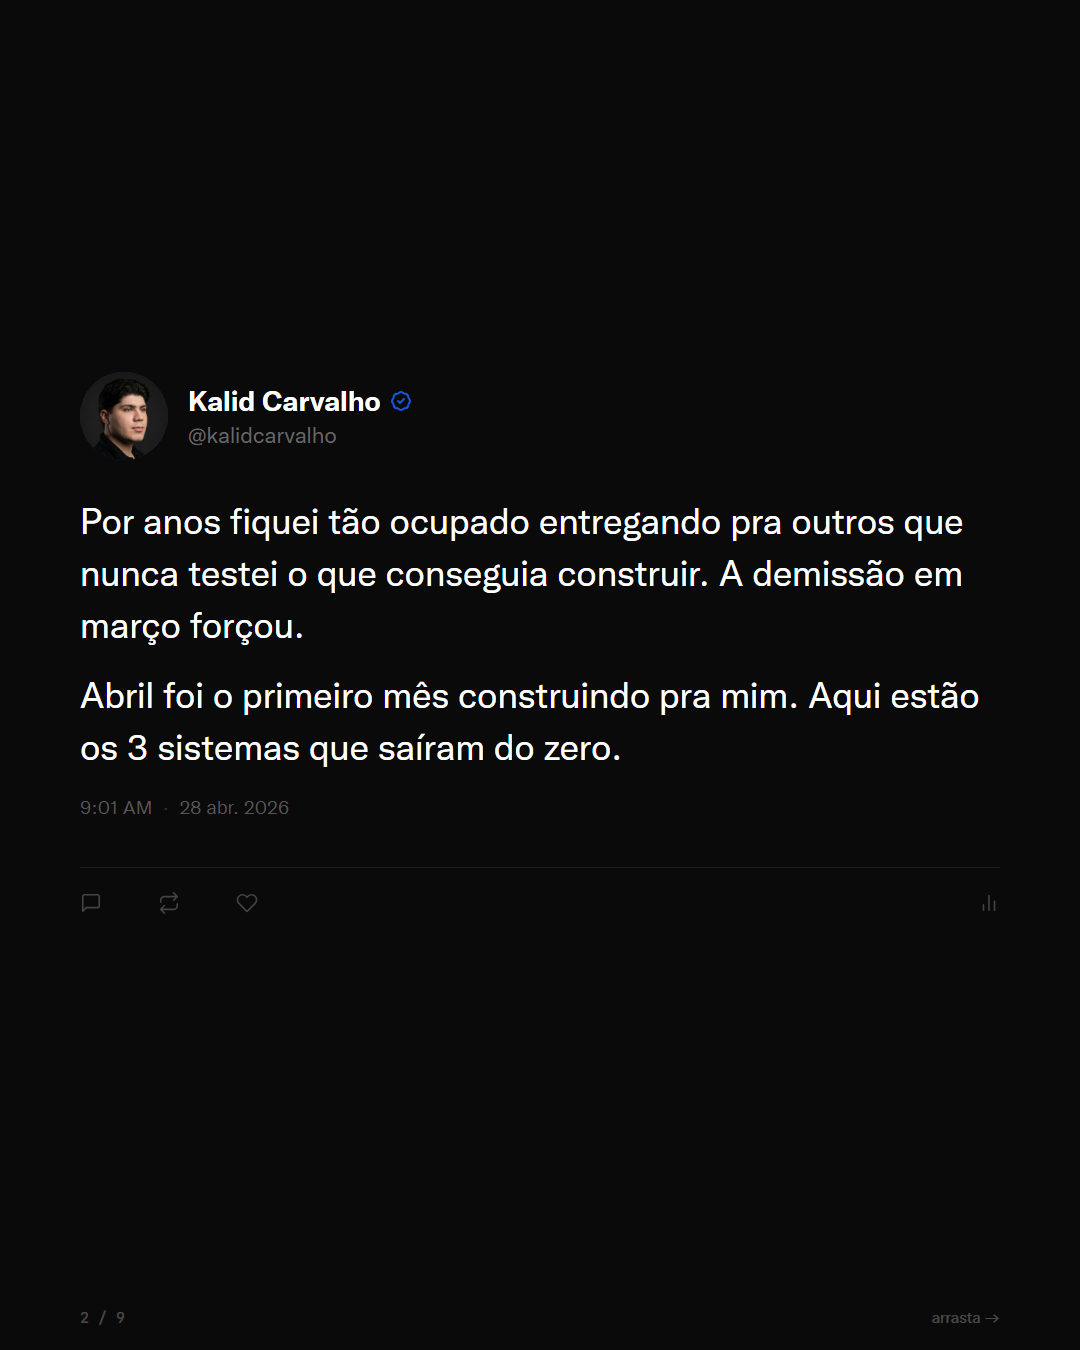
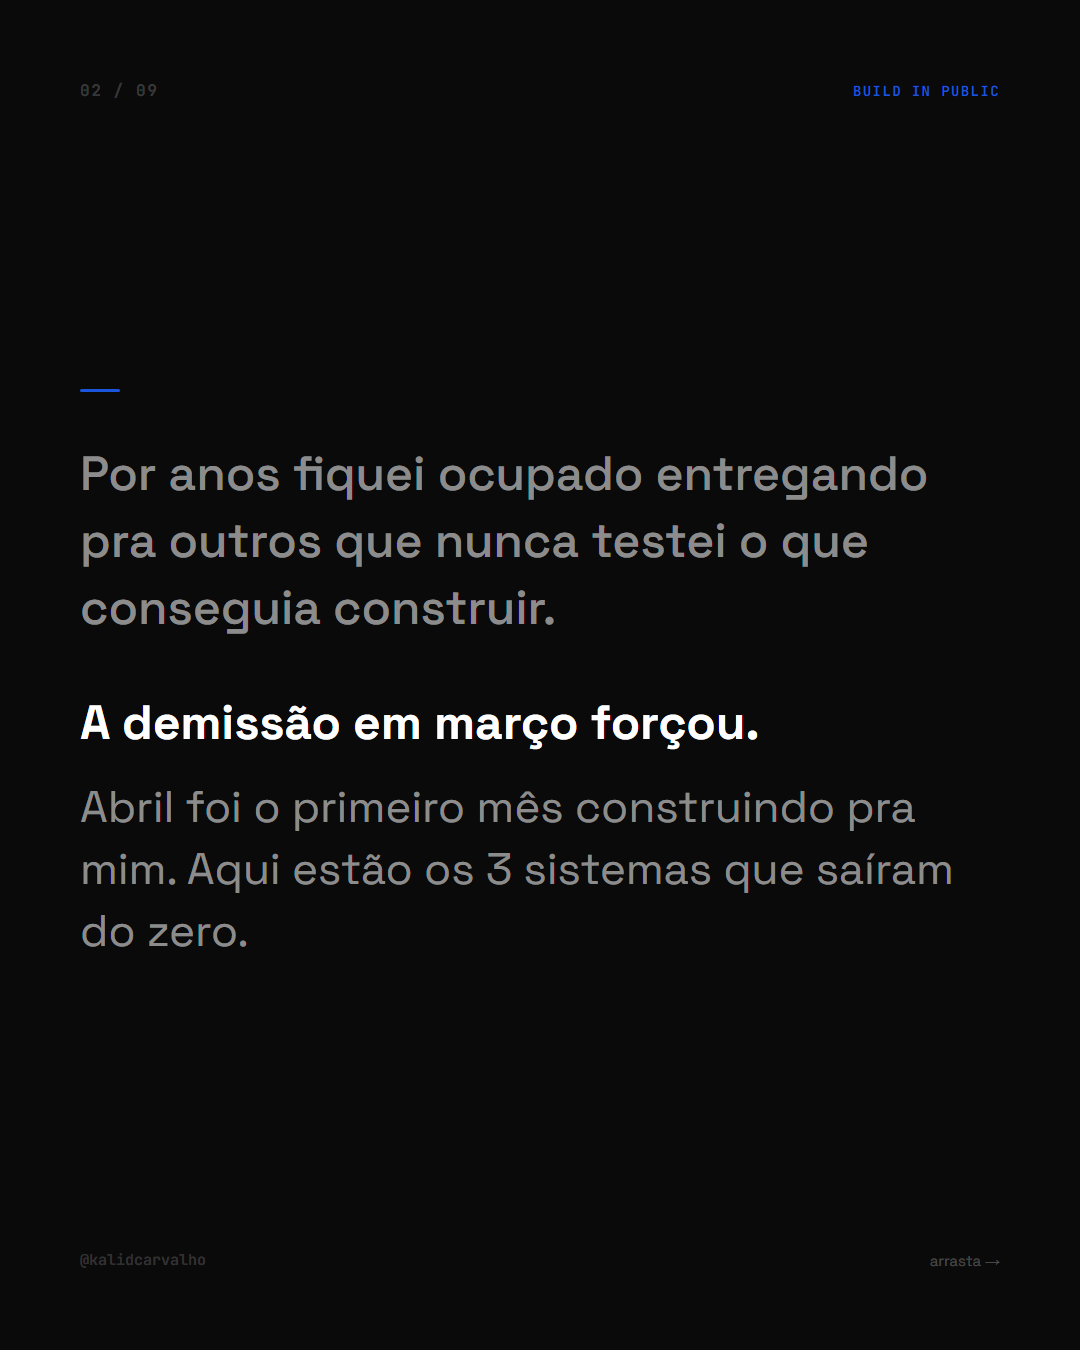
auto-sync: 2026-04-28 07:04

diff --git a/clientes/Alexandre Neto/conteudo/semana-01/semana-01-pdf.html b/clientes/Alexandre Neto/conteudo/semana-01/semana-01-pdf.html
@@ -1,9 +1,9 @@
-<!DOCTYPE html>
+<!DOCTYPE html>
 <html lang="pt-BR">
 <head>
 <meta charset="UTF-8">
 <meta name="viewport" content="width=device-width, initial-scale=1.0">
-<title>Semana 01 — @alexandreneto.english</title>
+<title>Semana 01: @alexandreneto.english</title>
 <style>
   @import url('https://fonts.googleapis.com/css2?family=Inter:wght@300;400;500;600;700;800;900&display=swap');
 
@@ -614,7 +614,7 @@
   <div class="cover-handle">@alexandreneto.english</div>
   <div class="cover-title">Semana <span>01</span></div>
   <div class="cover-divider"></div>
-  <div class="cover-sub">Roteiros e conteúdo planejado para Instagram e TikTok — primeira semana no ar.</div>
+  <div class="cover-sub">Roteiros e conteúdo planejado para Instagram e TikTok. Primeira semana no ar.</div>
   <div class="cover-meta">
     <div class="cover-meta-item">
       <strong>1</strong>
@@ -642,7 +642,7 @@
     <div class="post-card highlight">
       <div class="post-number">Post 01</div>
       <div><span class="post-type-badge badge-reel">Reel</span></div>
-      <div class="post-card-title">Apresentação — quem sou, o que faço, para quem</div>
+      <div class="post-card-title">Apresentação: quem sou, o que faço, para quem</div>
       <div class="post-card-day">Segunda-feira · 45–60s</div>
     </div>
     <div class="post-card">
@@ -666,12 +666,12 @@
 
   <div class="strategy-box">
     <h4>Por que esse mix?</h4>
-    <p>O Reel de apresentação é o primeiro contato — precisa ser vídeo, rosto, presença. Os dois carrosséis são educativos e "salváveis" — formato com maior alcance orgânico no Instagram para conteúdo novo. A dica rápida (post 03) tem alto potencial de compartilhamento.</p>
+    <p>O Reel de apresentação é o primeiro contato: precisa ser vídeo, rosto, presença. Os dois carrosséis são educativos e "salváveis", formato com maior alcance orgânico no Instagram para conteúdo novo. A dica rápida (post 03) tem alto potencial de compartilhamento.</p>
   </div>
 
   <div class="strategy-box">
     <h4>Posicionamento central</h4>
-    <p>Não falar em salário nem em "triplicar renda". Os concorrentes já fazem isso. O diferencial é <strong>confiança pra falar no trabalho</strong> — uma dor mais específica, mais emocional e mais honesta.</p>
+    <p>Não falar em salário nem em "triplicar renda". Os concorrentes já fazem isso. O diferencial é <strong>confiança pra falar no trabalho</strong>: uma dor mais específica, mais emocional e mais honesta.</p>
   </div>
 </div>
 
@@ -679,7 +679,7 @@
 <div class="page">
   <div class="section-tag">Post 01 · Reel · Segunda-feira</div>
   <div class="page-title">Apresentação</div>
-  <p class="page-desc">Quem sou, o que faço e para quem. Primeiro vídeo do perfil — câmera, rosto, presença.</p>
+  <p class="page-desc">Quem sou, o que faço e para quem. Primeiro vídeo do perfil: câmera, rosto, presença.</p>
   <div class="divider"></div>
 
   <div class="roteiro-meta" style="margin-bottom:28px;">
@@ -701,7 +701,7 @@
 
 Não ensino inglês pra quem quer viajar, passar em prova ou impressionar alguém no bar.
 
-Ensino pra dev. Pra analista. Pra QA. Pra quem já lê inglês no dia a dia, entende documentação, usa terminal em inglês — mas na hora de abrir a boca numa reunião com cliente internacional, trava.
+Ensino pra dev. Pra analista. Pra QA. Pra quem já lê inglês no dia a dia, entende documentação, usa terminal em inglês, mas na hora de abrir a boca numa reunião com cliente internacional, trava.
 
 Isso acontece porque você aprendeu inglês pra ler, não pra falar. São habilidades diferentes. E ninguém te ensinou a falar no contexto que você precisa.
 
@@ -718,10 +718,10 @@ Se isso faz sentido pra você, segue o perfil."</div>
   <div class="notes-section">
     <div class="notes-title">Notas de gravação</div>
     <div class="note-item"><div class="note-dot"></div><div class="note-text">Fala pausada, sem pressa. Transmite autoridade, não simpatia forçada.</div></div>
-    <div class="note-item"><div class="note-dot"></div><div class="note-text">Não sorria o tempo todo — naturalidade e credibilidade.</div></div>
-    <div class="note-item"><div class="note-dot"></div><div class="note-text">Pausa de 0,5s antes de "trava" no hook — deixa a palavra pesar.</div></div>
-    <div class="note-item"><div class="note-dot"></div><div class="note-text">Legenda em todos os vídeos — CapCut gera automático. Destacar: "dev", "analista", "QA", "trava".</div></div>
-    <div class="note-item"><div class="note-dot"></div><div class="note-text">Luz frontal (natural ou ring light). Fundo limpo — parede ou estante com livros.</div></div>
+    <div class="note-item"><div class="note-dot"></div><div class="note-text">Não sorria o tempo todo. Naturalidade e credibilidade importam mais.</div></div>
+    <div class="note-item"><div class="note-dot"></div><div class="note-text">Pausa de 0,5s antes de "trava" no hook. Deixa a palavra pesar.</div></div>
+    <div class="note-item"><div class="note-dot"></div><div class="note-text">Legenda em todos os vídeos. CapCut gera automático. Destacar: "dev", "analista", "QA", "trava".</div></div>
+    <div class="note-item"><div class="note-dot"></div><div class="note-text">Luz frontal (natural ou ring light). Fundo limpo: parede ou estante com livros.</div></div>
   </div>
 </div>
 
@@ -744,7 +744,7 @@ Se isso faz sentido pra você, segue o perfil."</div>
       <div class="slide-num">1</div>
       <div class="slide-content capa">
         <div class="slide-label">Capa</div>
-        <div class="slide-headline">Você estudou inglês por anos — e ainda trava.</div>
+        <div class="slide-headline">Você estudou inglês por anos. E ainda trava.</div>
         <div class="slide-body">O problema não é o que você pensa.</div>
       </div>
     </div>
@@ -752,7 +752,7 @@ Se isso faz sentido pra você, segue o perfil."</div>
     <div class="slide-row">
       <div class="slide-num">2</div>
       <div class="slide-content">
-        <div class="slide-label">Slide 2 — O diagnóstico</div>
+        <div class="slide-label">Slide 2: O diagnóstico</div>
         <div class="slide-headline">Você não tem problema de inglês.</div>
         <div class="slide-body">Você tem problema com <span class="slide-highlight">inglês falado</span>. São habilidades diferentes. E provavelmente só treinou uma delas.</div>
       </div>
@@ -761,16 +761,16 @@ Se isso faz sentido pra você, segue o perfil."</div>
     <div class="slide-row">
       <div class="slide-num">3</div>
       <div class="slide-content">
-        <div class="slide-label">Slide 3 — A explicação</div>
+        <div class="slide-label">Slide 3: A explicação</div>
         <div class="slide-headline">Leitura e fala usam caminhos diferentes no cérebro.</div>
-        <div class="slide-body">Quando você lê, tem tempo pra pensar. Quando fala, não tem. O cérebro precisa de um caminho automático — e você só constrói isso falando.</div>
+        <div class="slide-body">Quando você lê, tem tempo pra pensar. Quando fala, não tem. O cérebro precisa de um caminho automático, e você só constrói isso falando.</div>
       </div>
     </div>
 
     <div class="slide-row">
       <div class="slide-num">4</div>
       <div class="slide-content">
-        <div class="slide-label">Slide 4 — O erro comum</div>
+        <div class="slide-label">Slide 4: O erro comum</div>
         <div class="slide-headline">Estudar mais gramática não resolve.</div>
         <div class="slide-body">Você já sabe o suficiente. O que falta é treinar o <span class="slide-highlight">contexto certo</span>: a daily, a reunião com o cliente, o code review com o time gringro.</div>
       </div>
@@ -779,7 +779,7 @@ Se isso faz sentido pra você, segue o perfil."</div>
     <div class="slide-row">
       <div class="slide-num">5</div>
       <div class="slide-content">
-        <div class="slide-label">Slide 5 — A solução</div>
+        <div class="slide-label">Slide 5: A solução</div>
         <div class="slide-headline">Treinar o inglês que você vai usar de verdade.</div>
         <div class="slide-body">Não é fluência C2. É conseguir se expressar com clareza nas situações que aparecem no seu trabalho. Isso é possível em meses, não anos.</div>
       </div>
@@ -788,7 +788,7 @@ Se isso faz sentido pra você, segue o perfil."</div>
     <div class="slide-row">
       <div class="slide-num">6</div>
       <div class="slide-content capa">
-        <div class="slide-label">Slide 6 — CTA</div>
+        <div class="slide-label">Slide 6: CTA</div>
         <div class="slide-headline">Esse é o tipo de coisa que trabalhamos nas aulas.</div>
         <div class="slide-body">Me chama no direct se você quer falar sobre isso.</div>
       </div>
@@ -820,7 +820,7 @@ Se isso faz sentido pra você, segue o perfil."</div>
       <div class="slide-num">1</div>
       <div class="slide-content capa">
         <div class="slide-label">Capa</div>
-        <div class="slide-headline">3 frases que todo dev usa no trabalho — e ninguém ensinou pra você.</div>
+        <div class="slide-headline">3 frases que todo dev usa no trabalho. E ninguém ensinou pra você.</div>
         <div class="slide-body">Salva esse carrossel.</div>
       </div>
     </div>
@@ -848,14 +848,14 @@ Se isso faz sentido pra você, segue o perfil."</div>
       <div class="slide-content">
         <div class="slide-label">Frase 3</div>
         <div class="slide-headline">"Can you walk me through this?"</div>
-        <div class="slide-body">Quando você precisa que alguém explique algo passo a passo — código, processo, decisão. Funciona em <span class="slide-highlight">code review, daily, onboarding</span>.</div>
+        <div class="slide-body">Quando você precisa que alguém explique algo passo a passo: código, processo, decisão. Funciona em <span class="slide-highlight">code review, daily, onboarding</span>.</div>
       </div>
     </div>
 
     <div class="slide-row">
       <div class="slide-num">5</div>
       <div class="slide-content">
-        <div class="slide-label">Slide 5 — Contexto</div>
+        <div class="slide-label">Slide 5: Contexto</div>
         <div class="slide-headline">Essas 3 frases cobrem situações reais que todo dev enfrenta.</div>
         <div class="slide-body">A maioria trava porque nunca treinou o inglês específico do trabalho. Não é vocabulário geral. É contexto profissional.</div>
       </div>
@@ -864,9 +864,9 @@ Se isso faz sentido pra você, segue o perfil."</div>
     <div class="slide-row">
       <div class="slide-num">6</div>
       <div class="slide-content capa">
-        <div class="slide-label">Slide 6 — CTA</div>
+        <div class="slide-label">Slide 6: CTA</div>
         <div class="slide-headline">Manda esse carrossel pro seu grupo do time.</div>
-        <div class="slide-body">E me segue — toda semana tem conteúdo assim.</div>
+        <div class="slide-body">E me segue. Toda semana tem conteúdo assim.</div>
       </div>
     </div>
   </div>
@@ -914,7 +914,7 @@ Se isso faz sentido pra você, segue o perfil."</div>
       </tr>
       <tr>
         <td><span class="competitor-name">@alexandreneto.english</span><br><strong>Alexandre Neto</strong></td>
-        <td>—</td>
+        <td>novo</td>
         <td><span class="tag-diff">Confiança pra falar no trabalho</span><br><small style="color:#059669;">Ângulo emocional, específico, sem hype</small></td>
         <td>Aulas 1:1 personalizadas</td>
       </tr>

diff --git a/conteudo/kalidcarvalho/carrosseis/2026-04-28/abril-builds/instagram/slide-02.html b/conteudo/kalidcarvalho/carrosseis/2026-04-28/abril-builds/instagram/slide-02.html
@@ -5,63 +5,116 @@
 <meta name="viewport" content="width=1080">
 <link rel="preconnect" href="https://fonts.googleapis.com">
 <link rel="preconnect" href="https://fonts.gstatic.com" crossorigin>
-<link href="https://fonts.googleapis.com/css2?family=JetBrains+Mono:wght@500;600;700&display=swap" rel="stylesheet">
+<link href="https://fonts.googleapis.com/css2?family=Space+Grotesk:wght@400;500;600;700&family=JetBrains+Mono:wght@500;600;700&display=swap" rel="stylesheet">
 <style>
-@font-face { font-family: 'Chirp'; src: url('../../../../../../marca/fontes/chirp-regular-web.woff') format('woff'); font-weight: 400; }
-@font-face { font-family: 'Chirp'; src: url('../../../../../../marca/fontes/chirp-medium-web.woff') format('woff'); font-weight: 500 600; }
-@font-face { font-family: 'Chirp'; src: url('../../../../../../marca/fontes/chirp-bold-web.woff') format('woff'); font-weight: 700; }
 * { margin: 0; padding: 0; box-sizing: border-box; }
-body { width: 1080px; height: 1350px; background: #0A0A0A; font-family: 'Chirp', sans-serif; overflow: hidden; position: relative; }
-.tweet-card { position: absolute; top: 0; left: 0; right: 0; bottom: 64px; background: #0A0A0A; padding: 72px 80px; display: flex; flex-direction: column; justify-content: center; gap: 48px; }
-.tweet-top { display: flex; flex-direction: column; }
-.card-header { display: flex; align-items: center; margin-bottom: 36px; gap: 20px; }
-.avatar { width: 88px; height: 88px; border-radius: 50%; overflow: hidden; flex-shrink: 0; background: #1C2D4A; }
-.avatar img { width: 100%; height: 100%; object-fit: cover; object-position: top center; }
-.author-info { display: flex; flex-direction: column; gap: 4px; }
-.author-name { font-size: 28px; font-weight: 700; color: #FFFFFF; display: flex; align-items: center; gap: 8px; }
-.author-handle { font-size: 22px; font-weight: 400; color: #666666; }
-.tweet-text { font-size: 36px; font-weight: 400; color: #FFFFFF; line-height: 1.45; display: flex; flex-direction: column; gap: 18px; }
-.tweet-text p { margin: 0; }
-.tweet-timestamp { font-size: 19px; color: #555555; margin-top: 22px; }
-.tweet-timestamp span { margin: 0 6px; color: #333333; }
-.metrics { display: flex; align-items: center; gap: 0; padding-top: 24px; border-top: 1px solid #1E1E1E; }
-.metric { display: flex; align-items: center; gap: 12px; margin-right: 56px; color: #444444; }
-.metric svg { width: 22px; height: 22px; fill: none; stroke: #444444; stroke-width: 1.8; }
-.metric-views { margin-left: auto; color: #444444; display: flex; align-items: center; gap: 10px; }
-.metric-views svg { width: 22px; height: 22px; fill: none; stroke: #444444; stroke-width: 1.8; }
-.bottom-bar { position: absolute; bottom: 0; left: 0; right: 0; height: 64px; display: flex; align-items: center; justify-content: space-between; padding: 0 80px; z-index: 15; }
-.progress { font-family: 'JetBrains Mono', monospace; font-size: 15px; font-weight: 500; color: rgba(255,255,255,0.25); }
-.swipe { font-size: 15px; font-weight: 500; color: rgba(255,255,255,0.25); }
+body {
+  width: 1080px; height: 1350px;
+  background: #0A0A0A;
+  font-family: 'Space Grotesk', sans-serif;
+  overflow: hidden; position: relative;
+}
+
+.slide {
+  position: absolute; inset: 0;
+  padding: 80px;
+  display: flex; flex-direction: column;
+  justify-content: space-between;
+}
+
+.top {
+  display: flex; justify-content: space-between; align-items: center;
+}
+
+.slide-num {
+  font-family: 'JetBrains Mono', monospace;
+  font-size: 16px; font-weight: 600;
+  color: rgba(255,255,255,0.2);
+  letter-spacing: 0.1em;
+}
+
+.tag {
+  font-family: 'JetBrains Mono', monospace;
+  font-size: 14px; font-weight: 600;
+  color: #1A56DB;
+  letter-spacing: 0.1em;
+  text-transform: uppercase;
+}
+
+.middle {
+  flex: 1;
+  display: flex; flex-direction: column;
+  justify-content: center;
+  gap: 0;
+  padding: 40px 0;
+}
+
+.accent-line {
+  width: 40px; height: 3px;
+  background: #1A56DB;
+  border-radius: 2px;
+  margin-bottom: 48px;
+}
+
+.text {
+  font-size: 48px; font-weight: 500;
+  color: rgba(255,255,255,0.55);
+  line-height: 1.4;
+  margin-bottom: 48px;
+}
+
+.highlight {
+  font-size: 48px; font-weight: 700;
+  color: #FFFFFF;
+  line-height: 1.4;
+  display: block;
+}
+
+.text-bottom {
+  font-size: 44px; font-weight: 400;
+  color: rgba(255,255,255,0.55);
+  line-height: 1.4;
+}
+
+.bottom {
+  display: flex; align-items: center; justify-content: space-between;
+}
+
+.watermark {
+  font-family: 'JetBrains Mono', monospace;
+  font-size: 15px; font-weight: 500;
+  color: rgba(255,255,255,0.18);
+}
+
+.swipe {
+  font-size: 15px; font-weight: 400;
+  color: rgba(255,255,255,0.25);
+}
 </style>
 </head>
 <body>
-<div class="tweet-card">
-  <div class="tweet-top">
-    <div class="card-header">
-      <div class="avatar"><img src="../../../../../../marca/foto-perfil.png" alt="Kalid Carvalho"></div>
-      <div class="author-info">
-        <span class="author-name">Kalid Carvalho
-          <svg width="24" height="24" viewBox="0 0 24 24"><path d="M9 12l2 2 4-4M7.835 4.697a3.42 3.42 0 001.946-.806 3.42 3.42 0 014.438 0 3.42 3.42 0 001.946.806 3.42 3.42 0 013.138 3.138 3.42 3.42 0 00.806 1.946 3.42 3.42 0 010 4.438 3.42 3.42 0 00-.806 1.946 3.42 3.42 0 01-3.138 3.138 3.42 3.42 0 00-1.946.806 3.42 3.42 0 01-4.438 0 3.42 3.42 0 00-1.946-.806 3.42 3.42 0 01-3.138-3.138 3.42 3.42 0 00-.806-1.946 3.42 3.42 0 010-4.438 3.42 3.42 0 00.806-1.946 3.42 3.42 0 013.138-3.138z" stroke="#1A56DB" stroke-width="2" fill="none" stroke-linecap="round" stroke-linejoin="round"/></svg>
-        </span>
-        <span class="author-handle">@kalidcarvalho</span>
-      </div>
-    </div>
-    <div class="tweet-text">
-      <p>Por anos fiquei tão ocupado entregando pra outros que nunca testei o que conseguia construir. A demissão em março forçou.</p>
-      <p>Abril foi o primeiro mês construindo pra mim. Aqui estão os 3 sistemas que saíram do zero.</p>
-    </div>
-    <div class="tweet-timestamp">9:01 AM <span>·</span> 28 abr. 2026</div>
+<div class="slide">
+  <div class="top">
+    <span class="slide-num">02 / 09</span>
+    <span class="tag">Build in Public</span>
   </div>
-  <div class="metrics">
-    <div class="metric"><svg viewBox="0 0 24 24"><path d="M21 15a2 2 0 0 1-2 2H7l-4 4V5a2 2 0 0 1 2-2h14a2 2 0 0 1 2 2z" stroke-linecap="round" stroke-linejoin="round"/></svg></div>
-    <div class="metric"><svg viewBox="0 0 24 24"><path d="M17 1l4 4-4 4M3 11V9a4 4 0 0 1 4-4h14M7 23l-4-4 4-4M21 13v2a4 4 0 0 1-4 4H3" stroke-linecap="round" stroke-linejoin="round"/></svg></div>
-    <div class="metric"><svg viewBox="0 0 24 24"><path d="M20.84 4.61a5.5 5.5 0 0 0-7.78 0L12 5.67l-1.06-1.06a5.5 5.5 0 0 0-7.78 7.78l1.06 1.06L12 21.23l7.78-7.78 1.06-1.06a5.5 5.5 0 0 0 0-7.78z" stroke-linecap="round" stroke-linejoin="round"/></svg></div>
-    <div class="metric-views"><svg viewBox="0 0 24 24"><path d="M18 20V10M12 20V4M6 20v-6" stroke-linecap="round" stroke-linejoin="round"/></svg></div>
+
+  <div class="middle">
+    <div class="accent-line"></div>
+    <div class="text">
+      Por anos fiquei ocupado entregando pra outros que nunca testei o que conseguia construir.
+    </div>
+    <span class="highlight">A demissão em março forçou.</span>
+    <br>
+    <div class="text-bottom">
+      Abril foi o primeiro mês construindo pra mim. Aqui estão os 3 sistemas que saíram do zero.
+    </div>
   </div>
-</div>
-<div class="bottom-bar">
-  <span class="progress">2 / 9</span>
-  <span class="swipe">arrasta →</span>
+
+  <div class="bottom">
+    <span class="watermark">@kalidcarvalho</span>
+    <span class="swipe">arrasta →</span>
+  </div>
 </div>
 </body>
 </html>
